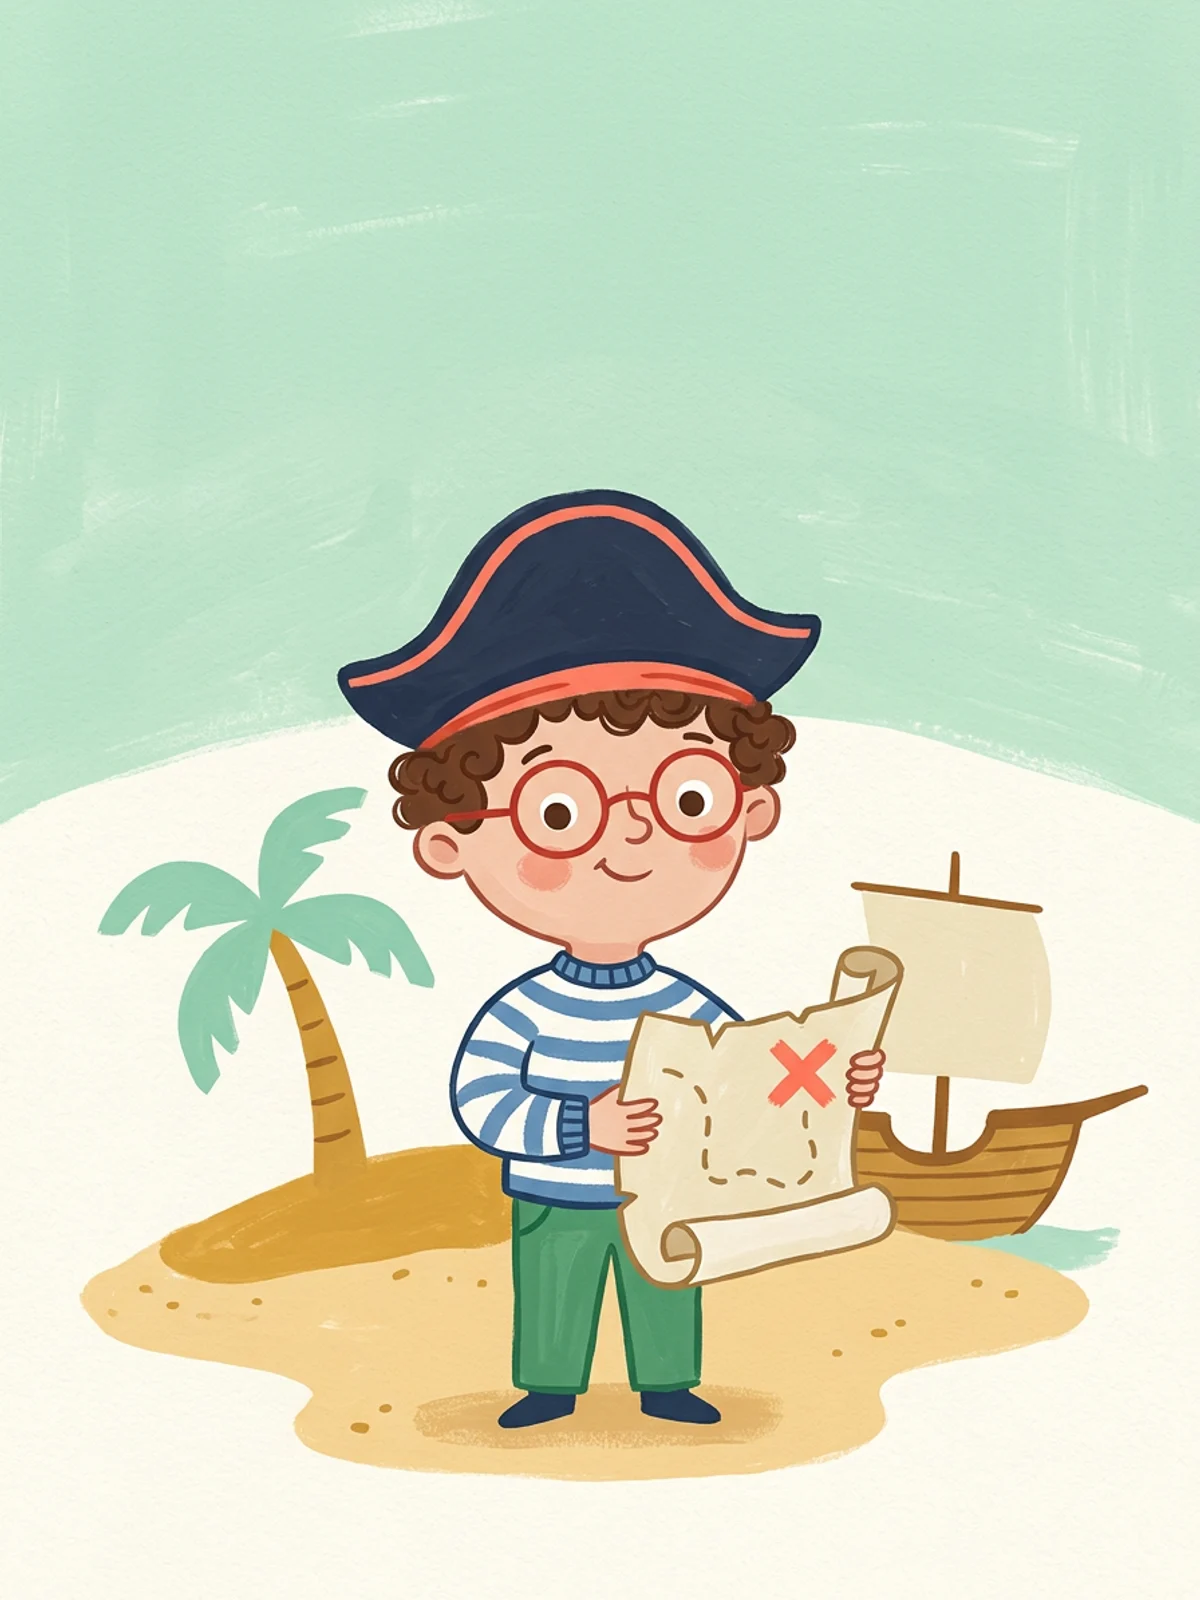
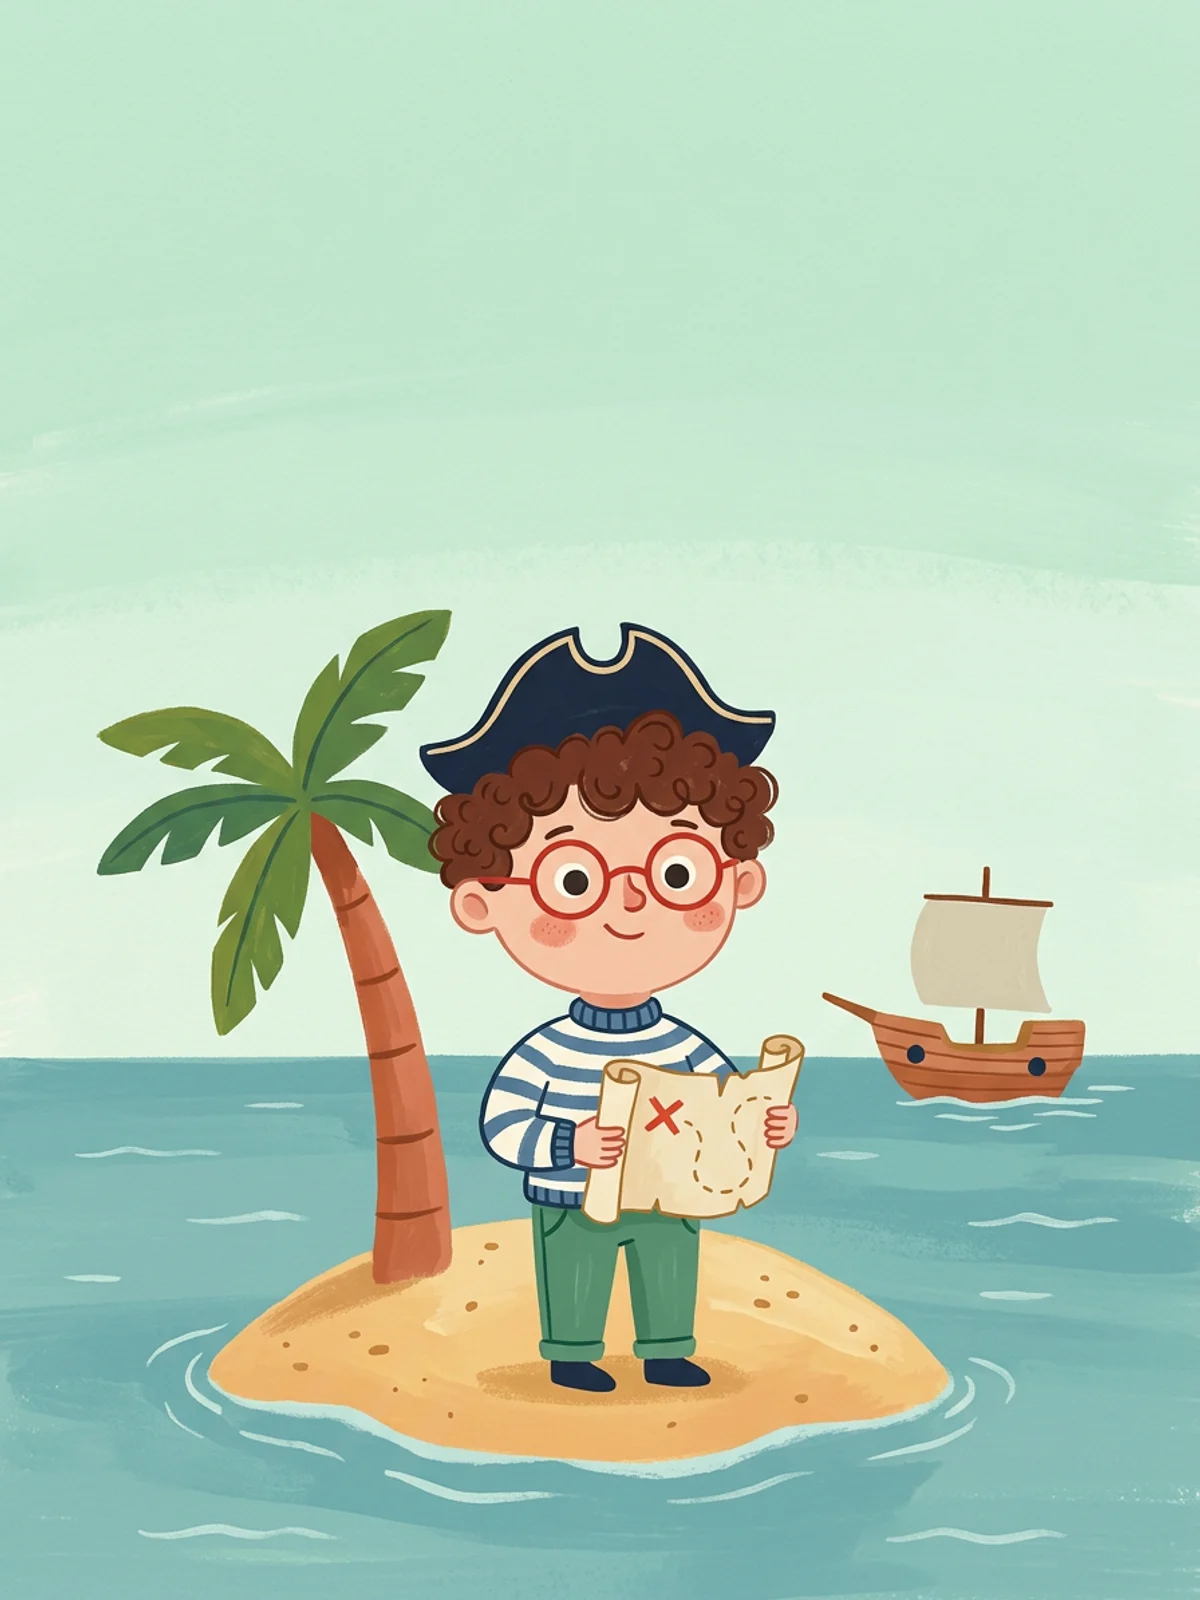
Portada de el-tesoro-de-la-isla: mar y cielo continuos (reintento)

diff --git a/packages/providers/scripts/generate-brand-images.ts b/packages/providers/scripts/generate-brand-images.ts
@@ -544,7 +544,7 @@ const JOBS: Job[] = [
   softCover(
     'el-tesoro-de-la-isla',
     'mint',
-    `${at('tomas', 6)} as a friendly pirate in a simple pirate hat and striped shirt, holding an unrolled treasure map with a red X, standing on a sandy beach of a small island with a palm tree; a small wooden ship with a plain sail waits in the water behind him. No weapons, no swords, no skulls.`,
+    `${at('tomas', 6)} as a friendly pirate in a simple pirate hat and striped shirt, holding an unrolled treasure map with a red X, standing on the sandy beach of a small island with a palm tree. The whole background is continuous gouache sea and sky: a soft pale sky in the top third fading into calm blue-green sea behind the island that reaches both side edges of the cover, with no white or empty areas. A small wooden ship with a plain sail floats on the water behind him. No weapons, no swords, no skulls, no text.`,
   ),
   softCover(
     'mi-primer-anito',
